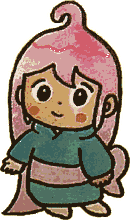
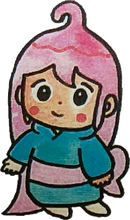
fq-walk-stroll-v1: 歩きを散歩に／走りを少しゆっくりに／追い抜くように。キャラクターの絵を頭が切れていない版へ

diff --git a/index.html b/index.html
@@ -104,7 +104,7 @@ const FQ = {
       { photo:'img/ch_braid.png', move:'hop',    at:17.5, x: 82, y: 13  },
       { photo:'img/ch_wood.png',  move:'sit',    at: 21                 },
       { photo:'img/ch_beard.png', move:'hop',    at: 26,  x:  4, y: 17  },
-      { photo:'img/ch_green.png', move:'dash',   at: 30                 },
+      { photo:'img/ch_green.png', move:'dash',   at: 8.5                },
     ],
   },
 
@@ -235,17 +235,25 @@ const FQ = {
          width:clamp(48px,14vw,80px);pointer-events:none;user-select:none;}
   .actor img{display:block;width:100%;height:auto;transform-origin:50% 100%;}
 
-  /* ① 歩く … 右へ行って、向きを変えて帰ってくる */
+  /* ① 歩く … 右へ行って、向きを変えて帰ってくる
+        fq-walk-stroll-v1: 早足だったのを「散歩」の速さに変えた。
+        ★片道 13.7秒（34秒の44%）。前は 4.8秒だった。
+          そのぶん、ほぼずっと画面のどこかを歩いていることになる。
+        ★足の運び（i-step）も .44秒 → .85秒。速さと歩幅が合っていないと、
+          「足だけ速く動いているのに進まない」ように見えるため。
+        ★速さを変えたいときは 46% と 91% の2つを動かす。
+          46% を小さくすると速く、大きくするとゆっくり。
+          91% は「46%＋45%」で決めている（往復を同じ速さにするため）。 */
   .m-walk{left:0;animation:a-walk 34s linear infinite;}
-  .m-walk img{animation:i-step .44s ease-in-out infinite alternate;}
+  .m-walk img{animation:i-step .85s ease-in-out infinite alternate;}
   @keyframes a-walk{
       0%     {opacity:0; transform:translateX(-90px)             scaleX(1);}
-      1%,32% {opacity:1;}
+      1%,92% {opacity:1;}
       2%     {           transform:translateX(-90px)             scaleX(1);}
-     16%     {           transform:translateX(calc(100vw - 10px)) scaleX(1);}
-     17%     {           transform:translateX(calc(100vw - 10px)) scaleX(-1);}
-     31%     {           transform:translateX(-90px)             scaleX(-1);}
-     33%,100%{opacity:0; transform:translateX(-90px)             scaleX(1);}
+     46%     {           transform:translateX(calc(100vw - 10px)) scaleX(1);}
+     47%     {           transform:translateX(calc(100vw - 10px)) scaleX(-1);}
+     91%     {           transform:translateX(-90px)             scaleX(-1);}
+     93%,100%{opacity:0; transform:translateX(-90px)             scaleX(1);}
   }
   @keyframes i-step{
     from{transform:translateY(0)     rotate(-4deg);}
@@ -308,17 +316,20 @@ const FQ = {
 
   /* ⑤ 全力疾走（hero-motion-v1）… 横をすごい速さで走り抜ける。戻ってこない。
         ★歩く子（walk）は「行って帰ってくる」。こちらは走り抜けたら、それきり。
-        ★1%→3.6% で画面を渡りきる。34秒ひとまわりなので、およそ 0.9秒。
-          もっと速くしたいときは 3.6% を小さく、ゆっくりなら大きくする。
-        ★消し方は飛ぶ子と同じ考え方（走りきる→消す→見えないうちに左へ戻す）。 */
+        ★1%→5.7% で画面を渡りきる。34秒ひとまわりなので、およそ 1.7秒。
+          もっと速くしたいときは 5.7% を小さく、ゆっくりなら大きくする。
+          （fq-walk-stroll-v1 で 3.6%＝0.9秒 から、少しゆっくりにした）
+        ★消し方は飛ぶ子と同じ考え方（走りきる→消す→見えないうちに左へ戻す）。
+        ★この子は「歩く子を追い抜く」役。出番（at）を歩く子に合わせてある。
+          歩き 31px/秒 に対して 走り 394px/秒。およそ13倍の差。 */
   .m-dash{left:0;animation:a-dash 34s linear infinite;}
-  .m-dash img{animation:i-dash .13s ease-in-out infinite alternate;}
+  .m-dash img{animation:i-dash .19s ease-in-out infinite alternate;}
   @keyframes a-dash{
       0%      {opacity:0; transform:translateX(-130px) scale(1);}
       1%      {opacity:1; transform:translateX(-130px) scale(1);}
-      3.6%    {opacity:1; transform:translateX(calc(100vw + 150px)) scale(1);}
-      3.7%    {opacity:0; transform:translateX(calc(100vw + 150px)) scale(1);}
-      3.8%,100%{opacity:0; transform:translateX(-130px) scale(1);}
+      5.7%    {opacity:1; transform:translateX(calc(100vw + 150px)) scale(1);}
+      5.8%    {opacity:0; transform:translateX(calc(100vw + 150px)) scale(1);}
+      5.9%,100%{opacity:0; transform:translateX(-130px) scale(1);}
   }
   @keyframes i-dash{
     from{transform:translateY(0)    rotate(-11deg);}

diff --git a/README.md b/README.md
@@ -1060,3 +1060,95 @@ b = np.array(Image.open('after.png').convert('RGB'), int)
 d = np.abs(a - b)
 print(d.mean(), d.max())      # 平均が数以下で、違いが輪郭だけなら合格
 ```
+
+---
+
+## `fq-walk-stroll-v1` とキャラクターの絵の差し替え（2026-08-26）
+
+### ① キャラクターの絵を「頭が切れていない版」に差し替えた
+
+`img/ch_◯◯.png` 7枚と、腰かけ用の `ch_wood_body.png` / `ch_wood_legs.png` を作り直した。
+
+**★白い背景のぬき方**
+
+もらった写真は白地のJPEG。**明るさだけで「白は透明」とすると、白ひげの子のヒゲや
+ピンクの子の白い髪飾りまで消える。** そこで、
+
+**「画像のふちからつながっている白」だけを背景とみなした**（ふちから塗りつぶし）。
+絵の内側にある白は、背景とつながっていないので残る。
+
+```python
+near_white = (a.min(axis=2)>238) & (a.max(axis=2)-a.min(axis=2)<14)
+lab, k = ndimage.label(near_white)
+border = ふちの行・列に出てくるラベル番号
+bg = np.isin(lab, border)      # ← これだけを透明にする
+```
+
+**★向き**
+
+ピンク・みどり・白ひげの3枚は横倒しで届いたので、**右に90度回した**。
+
+**★大きさ**
+
+高さを 220px にそろえた（今までと同じ）。
+`.actor` は**横幅**を指定して高さは自動なので、頭が入ったぶん、
+うさぎ耳の子などは**前より縦に長く表示される**。これは正しい状態。
+
+**★腰かける子（木の子）の体と足**
+
+`sit` の動きは、足だけ別の絵にして腰で振っている。
+古い2枚を調べたら、**ただの横一直線の切り分け**だった。
+
+```
+足  … 高さの 72.7% から下
+体  … 高さの 83.6% まで
+（72.7%〜83.6% は両方にあり、体を手前に描くので継ぎ目が見えない）
+```
+
+同じ割合で切り直したので、**支点（`transform-origin:45.7% 76.4%`）はそのままで合う。**
+
+### ② `fq-walk-stroll-v1` — 歩く速さ・走る速さ・追い抜き
+
+| | 前 | 後 |
+|---|---|---|
+| 箱の顔の子（歩く） | 片道 4.8秒 | **片道 13.7秒（散歩）** |
+| 足の運び | .44秒 | **.85秒** |
+| みどりの子（走る） | 0.9秒で渡りきる | **1.7秒** |
+| みどりの子の出番 | 30秒 | **8.5秒** |
+
+**★足の運びも一緒に変えること。** 進む速さだけ遅くすると、
+**「足だけ速く動いているのに進まない」**という不自然な見え方になる。
+
+**★追い抜きは「たまたま」ではなく、計算して合わせてある。**
+歩く子は 31px/秒、走る子は 394px/秒（およそ13倍）。
+実測で **9.65秒に、画面のちょうどまん中あたりで抜く。**
+
+歩く子は34秒のうち約31秒ぶん画面に居ることになる（前は11秒だけ）。
+
+### 検証
+
+実際のブラウザ（Chromium）で、
+
+- 誰がどの動きか／スピード線と煙の数／読み込めない絵が無いこと
+- 飛んだあと・走り抜けたあとに「見えた状態で戻ってくる」瞬間が **0個**
+- 歩く子と走る子の位置を 0.1秒きざみで全部測り、**追い抜く時刻と場所を確認**
+
+### ★速さを変えたくなったとき（触る数字）
+
+| 場所 | 数字 | 意味 |
+|---|---|---|
+| `@keyframes a-walk` | `46%` | 歩く子が右はしに着く時刻。小さくすると速い |
+| 〃 | `91%` | 帰り着く時刻。`46%＋45%` で決めている |
+| `.m-walk img` | `.85s` | 足の運び。進む速さと合わせること |
+| `@keyframes a-dash` | `5.7%` | 走る子が渡りきる時刻。小さくすると速い |
+| actors の `at:` | `8.5` | 走る子の出番。**追い抜く場所がここで決まる** |
+
+★`at` を動かすと追い抜く場所が変わる。**大きくすると、より右で抜く。**
+
+### 残件
+
+- もらった画像の「2番」（水色の服のピンク髪の子）は今の7人のどれとも違う。
+  **今は使わない**と決めた。フォルダにも置いていない。
+- もっときれいなキャラクターのデータは後日もらう予定。
+  そのときは `img/ch_◯◯.png` を同じ名前・同じ高さ(220px)・透明背景で置き換えるだけ。
+  **木の子だけは `_body` / `_legs` も作り直すこと**（上の割合で切る）。
